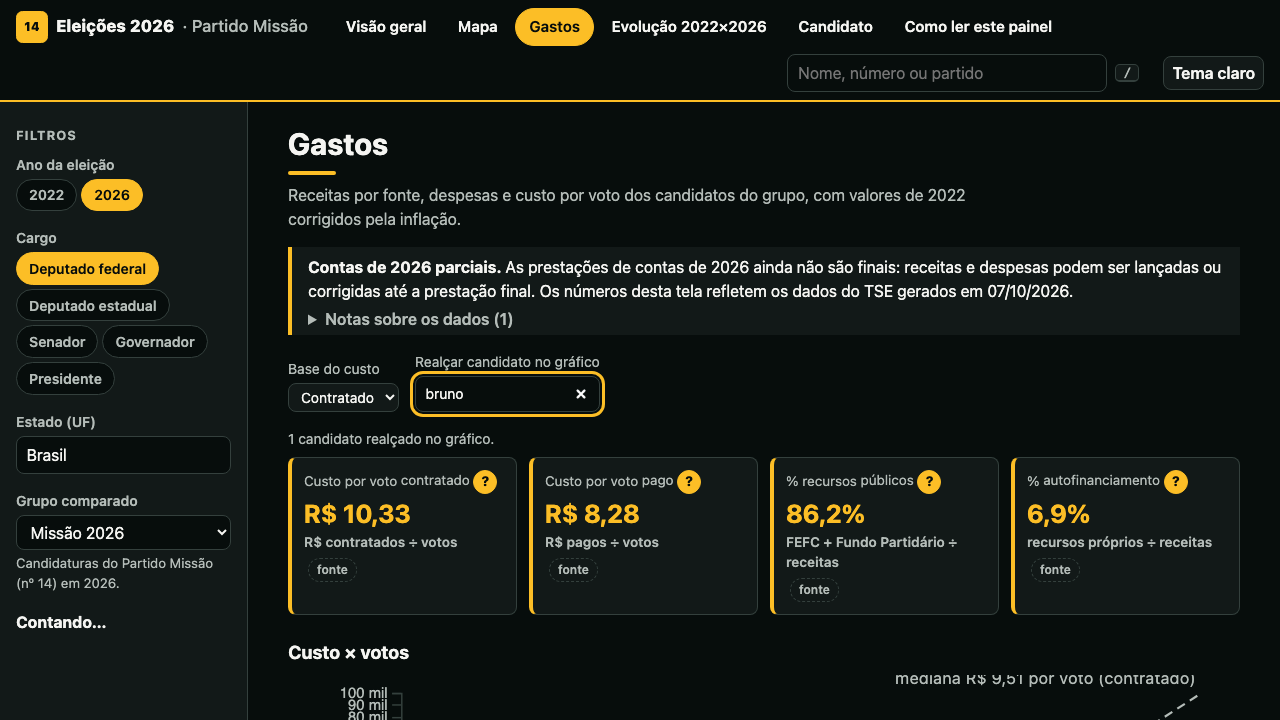
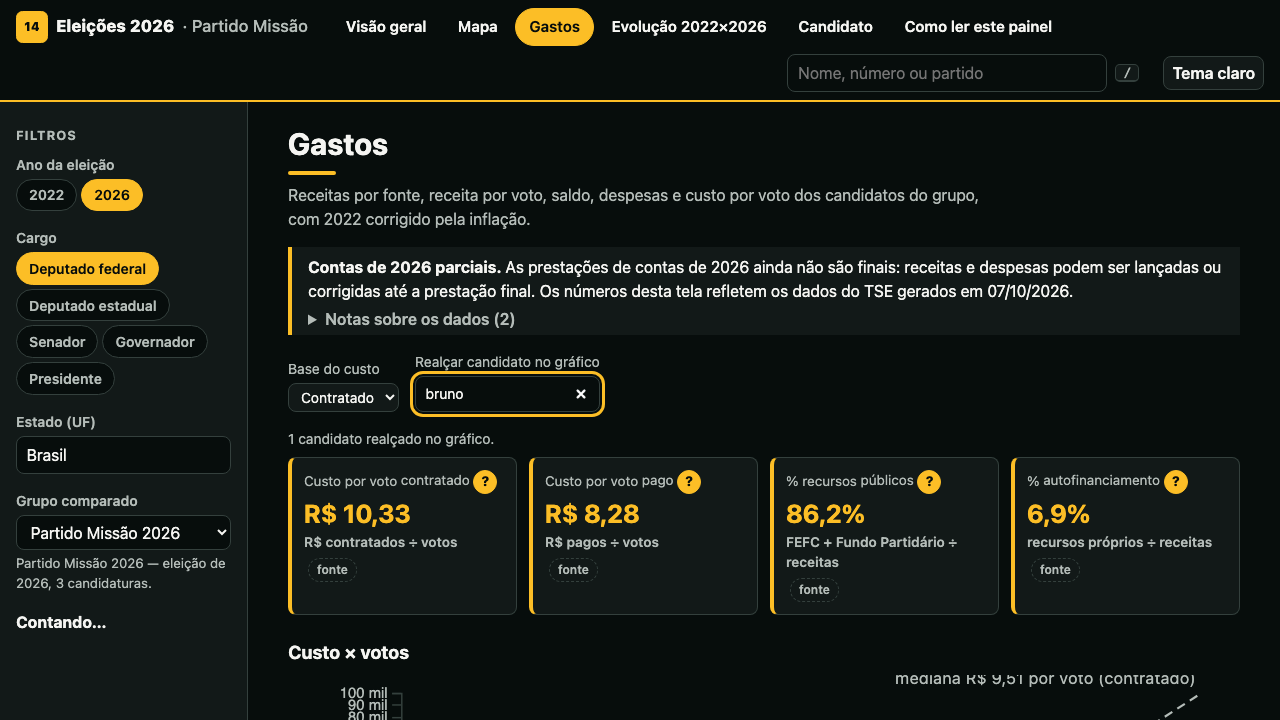
feat(web): Evolução redesenhada — comparador 2022×2026 por lados, frase-resumo, indicados e 422 por lado (T-W20)

Changed region(s): [[0.25, 0.2444, 0.75, 0.3361], [0.0, 0.7333, 0.1875, 0.825], [0.375, 0.4278, 0.4062, 0.4583]]

diff --git a/apps/web/tests/e2e/comparador.spec.ts b/apps/web/tests/e2e/comparador.spec.ts
@@ -1,0 +1,118 @@
+import { readFileSync } from "node:fs";
+import { expect, test, type Page } from "@playwright/test";
+import { simularApi } from "./api";
+
+const CAPTURAS = "../../docs/registro/handoffs/img";
+// O tipo é só para quem chama (JSON.parse devolve any).
+// eslint-disable-next-line @typescript-eslint/no-unnecessary-type-parameters
+const fixture = <T>(nome: string): T => JSON.parse(readFileSync(new URL(`../fixtures/api/${nome}.json`, import.meta.url), "utf-8")) as T;
+
+type Cand = Record<string, unknown> & { sq_candidato: number; ano: number; nm_urna: string };
+const base = fixture<{ itens: Cand[] }>("busca").itens[0] as Cand;
+const CANDIDATURAS: Cand[] = [
+  { ...base, ano: 2022, sq_candidato: 111, nm_urna: "GUTO ZACARIAS", uf: "SP", cargo: "DEPUTADO ESTADUAL", indicado: true },
+  { ...base, ano: 2026, sq_candidato: 222, nm_urna: "RAFA MINATO", uf: "SP", cargo: "DEPUTADO ESTADUAL", indicado: false },
+  { ...base, ano: 2022, sq_candidato: 301, nm_urna: "KIM KATAGUIRI", uf: "SP", cargo: "DEPUTADO FEDERAL", indicado: true },
+  { ...base, ano: 2022, sq_candidato: 302, nm_urna: "CRISTIANO BERALDO", uf: "SP", cargo: "DEPUTADO FEDERAL", indicado: true },
+];
+
+/** `/busca` e as fichas respondem por ano/nome; o `/comparativo` ecoa a contagem pedida e guarda as URLs. */
+async function simular(page: Page, contagem: { nDe: number; nPara: number }): Promise<string[]> {
+  const urls = await simularApi(page);
+  const comparativo = fixture<Record<string, unknown>>("comparativo");
+  const ficha = fixture<{ candidato: Cand }>("ficha");
+  await page.route("**/api/busca?**", (r) => {
+    const q = new URL(r.request().url()).searchParams;
+    const termo = (q.get("q") ?? "").toLowerCase();
+    const itens = CANDIDATURAS.filter((c) => String(c.ano) === q.get("ano") && c.cargo === q.get("cargo") && c.nm_urna.toLowerCase().includes(termo));
+    return r.fulfill({ contentType: "application/json", body: JSON.stringify({ total: itens.length, limite: 40, itens, dt_geracao: "2026-10-07" }) });
+  });
+  await page.route(/\/api\/candidatos\/(2022|2026)\/\d+$/, (r) => {
+    const [, ano, sq] = /candidatos\/(\d+)\/(\d+)/.exec(r.request().url()) ?? [];
+    const c = CANDIDATURAS.find((x) => String(x.ano) === ano && String(x.sq_candidato) === sq);
+    return r.fulfill({ contentType: "application/json", body: JSON.stringify({ ...ficha, candidato: { ...ficha.candidato, ...c, sg_uf: "SP" } }) });
+  });
+  await page.route("**/api/comparativo?**", (r) => {
+    const u = new URL(r.request().url());
+    urls.push(u.pathname + u.search);
+    return r.fulfill({ contentType: "application/json", body: JSON.stringify({ ...comparativo, n_de: contagem.nDe, n_para: contagem.nPara, uf: "SP" }) });
+  });
+  return urls;
+}
+
+async function escolherCandidato(page: Page, cartao: number, busca: string, nome: string): Promise<void> {
+  const c = page.locator(".cartao-lado").nth(cartao);
+  await c.getByRole("button", { name: "Alterar" }).click();
+  await c.getByLabel("Candidatos").check();
+  await c.getByLabel(/Buscar candidato/).fill(busca);
+  await c.getByRole("option", { name: new RegExp(nome) }).click();
+}
+
+test("comparador: Guto Zacarias 2022 × Rafa Minato 2026 (dep. estadual SP) em poucos cliques; a URL reproduz o estado", async ({ page }) => {
+  const urls = await simular(page, { nDe: 1, nPara: 1 });
+  await page.goto("/#/evolucao?uf=SP&cargo=deputado_estadual");
+  await escolherCandidato(page, 0, "guto", "GUTO ZACARIAS");
+  await expect(page.locator(".chip-candidato")).toContainText("GUTO ZACARIAS");
+  await expect(page.locator(".chip-candidato .selo")).toHaveText("indicado MBL");
+  await page.locator(".cartao-lado").first().getByRole("button", { name: "Aplicar" }).click();
+  await expect(page).toHaveURL(/de=c(:|%3A)111/);
+  await escolherCandidato(page, 1, "rafa", "RAFA MINATO");
+  await page.locator(".cartao-lado").nth(1).getByRole("button", { name: "Aplicar" }).click();
+  await expect(page).toHaveURL(/para=c(:|%3A)222/);
+
+  const frase = page.locator(".frase-resumo");
+  await expect(frase).toContainText("Comparando GUTO ZACARIAS (2022) com RAFA MINATO (2026)");
+  await expect(frase).toContainText("Deputado estadual · São Paulo");
+  await expect(frase).toContainText("1 candidatura → 1 candidatura");
+  await expect(page.locator("dl.kpis")).toContainText("Penetração em 2022");
+  await expect(page.locator("dl.kpis")).toContainText("6,1 ‰");
+  expect(urls.some((u) => u.startsWith("/api/comparativo?") && u.includes("sq_2022=111") && u.includes("sq_2026=222"))).toBe(true);
+  await expect(page.locator("table.tabela-pessoas tbody tr")).toHaveCount(2);
+
+  // Nenhuma lista longa: nada com mais de 8 itens visíveis.
+  const maior = await page.evaluate(() => Math.max(0, ...[...document.querySelectorAll("ul,ol")].filter((l) => (l as HTMLElement).offsetParent !== null && !l.closest("nav")).map((l) => l.children.length)));
+  expect(maior).toBeLessThanOrEqual(8);
+  await page.screenshot({ path: `${CAPTURAS}/T-W20-guto-rafa-desktop.png`, fullPage: true });
+
+  await page.reload();
+  await expect(frase).toContainText("Comparando GUTO ZACARIAS (2022) com RAFA MINATO (2026)");
+  await expect(page).toHaveURL(/de=c(:|%3A)111/);
+});
+
+test("comparador: Kim + Beraldo 2022 × Partido Missão 2026 inteiro (dep. federal SP) — 'ver quanto expandimos'", async ({ page }) => {
+  const urls = await simular(page, { nDe: 2, nPara: 49 });
+  await page.goto("/#/evolucao?uf=SP");
+  await escolherCandidato(page, 0, "kim", "KIM KATAGUIRI");
+  await page.locator(".cartao-lado").first().getByLabel(/Buscar candidato/).fill("beraldo");
+  await page.getByRole("option", { name: /CRISTIANO BERALDO/ }).click();
+  await expect(page.locator(".chip-candidato")).toHaveCount(2);
+  await page.locator(".cartao-lado").first().getByRole("button", { name: "Aplicar" }).click();
+
+  const frase = page.locator(".frase-resumo");
+  await expect(frase).toContainText("Comparando KIM KATAGUIRI + CRISTIANO BERALDO (2022) com Partido Missão 2026 (2026)");
+  await expect(frase).toContainText("2 candidaturas → 49 candidaturas");
+  expect(urls.some((u) => u.startsWith("/api/comparativo?") && u.includes("sq_2022=301") && u.includes("sq_2022=302") && u.includes("grupo_2026=missao_2026") && !u.includes("mesmos_candidatos"))).toBe(true);
+  await page.screenshot({ path: `${CAPTURAS}/T-W20-kim-beraldo-missao-desktop.png`, fullPage: true });
+
+  await page.setViewportSize({ width: 390, height: 844 });
+  await expect(page.locator(".cartoes-lados")).toBeVisible();
+  const semRolagem = await page.evaluate(() => document.documentElement.scrollWidth <= document.documentElement.clientWidth);
+  const largos = await page.evaluate(() => [...document.querySelectorAll("body *")].filter((e) => e.getBoundingClientRect().right > document.documentElement.clientWidth + 1).slice(0, 6).map((e) => `${e.tagName}.${e.className}`));
+  expect(semRolagem, `estouram a largura: ${largos.join(", ")}`).toBe(true);
+  await page.screenshot({ path: `${CAPTURAS}/T-W20-kim-beraldo-missao-mobile.png`, fullPage: true });
+
+  await page.reload();
+  await expect(frase).toContainText("KIM KATAGUIRI + CRISTIANO BERALDO");
+  await page.getByRole("button", { name: /Limpar/ }).click();
+  await expect(page).not.toHaveURL(/de=/);
+  await expect(frase).toContainText("MBL 2022");
+});
+
+test("comparador: 422 sq_fora_do_recorte aparece como mensagem no cartão do lado, sem quebrar a tela", async ({ page }) => {
+  await simular(page, { nDe: 1, nPara: 1 });
+  await page.route("**/api/comparativo?**", (r) => r.fulfill({ status: 422, contentType: "application/json", body: JSON.stringify({ detail: { codigo: "sq_fora_do_recorte" } }) }));
+  await page.goto("/#/evolucao?uf=SP&de=c:301");
+  await expect(page.locator(".cartao-erro-api")).toContainText("não concorreu a este cargo nesta UF");
+  await expect(page.locator(".cartao-lado")).toHaveCount(2);
+  await expect(page.getByRole("alert")).toHaveCount(0);
+});

diff --git a/apps/web/tests/e2e/filtros-busca.spec.ts b/apps/web/tests/e2e/filtros-busca.spec.ts
@@ -137,6 +137,6 @@ test("grupos: a Evolução abre em MBL 2022 → MBL 2026 quando o grupo é mbl_2
   await page.goto("/#/evolucao?grupo=mbl_2026");
   await expect(page.locator(".frase-resumo")).toContainText("MBL 2026");
   await page.getByRole("button", { name: "Alterar" }).nth(1).click();
-  await expect(page.locator("select[name=grupo]").nth(1).locator("option")).toContainText(["Partido Missão 2026", "MBL 2026 (Missão + aliados em outros partidos)"]);
+  await expect(page.locator(".cartao-lado").nth(1).locator("select[name=grupo] option")).toContainText(["Partido Missão 2026", "MBL 2026 (Missão + aliados em outros partidos)"]);
   await expect.poll(() => urls.some((u) => u.startsWith("/api/comparativo?") && u.includes("comparacao=mbl2022_mbl2026"))).toBe(true);
 });

diff --git a/apps/web/src/telas/evolucao-candidaturas.ts b/apps/web/src/telas/evolucao-candidaturas.ts
@@ -12,7 +12,7 @@ const COLUNAS = ["Ano", "Candidato", "Partido", "UF", "Votos", "Penetração"] a
 export function tabelaCandidaturas(linhas: readonly CandidaturaFicha[]): HTMLElement | null {
   if (linhas.length === 0) return null;
   const tabela = h("table", { className: "tabela-pessoas" });
-  tabela.createCaption().textContent = T.tabelaTitulo;
+  tabela.createCaption().textContent = "Votos e penetração de cada candidatura escolhida, por ano";
   const cab = tabela.createTHead().insertRow();
   for (const c of COLUNAS) cab.append(h("th", { scope: "col", textContent: c }));
   const corpo = tabela.createTBody();

diff --git a/apps/web/tests/e2e/telas.spec.ts b/apps/web/tests/e2e/telas.spec.ts
@@ -49,7 +49,7 @@ test("evolução: três mapas, KPIs em ‰ e avisos de rezoneamento", async ({ p
   await page.goto("/#/evolucao");
   await expect(page.locator(".mapas-3 canvas")).toHaveCount(3, { timeout: 20_000 });
   await expect(page.getByText(/mesmas quebras de cor/)).toBeVisible();
-  await page.getByText("Notas sobre os dados").click();
+  await page.locator(".notas-dados > summary").click();
   await expect(page.getByText("Zonas eleitorais mudaram.")).toBeVisible();
   await expect(page.locator("dl.kpis")).toContainText("6,1 ‰");
 });

diff --git a/apps/web/src/estilo.css b/apps/web/src/estilo.css
@@ -315,3 +315,4 @@ circle.marca.com-link { cursor: pointer; }
   .cartoes-lados { grid-template-columns: 1fr; }
   .cartoes-seta { transform: rotate(90deg); justify-self: center; }
 }
+.tabela-rolagem { overflow-x: auto; max-width: 100%; }

diff --git a/docs/registro/handoffs/frontend-T-W20.md b/docs/registro/handoffs/frontend-T-W20.md
@@ -1,0 +1,22 @@
+# Handoff frontend — T-W20 (Evolução 2022×2026: comparador claro)
+
+## O que mudou
+- **Frase-resumo** no topo (`.frase-resumo`, `aria-live`): "Comparando **X** (2022) com **Y** (2026) · cargo · UF — N candidaturas → M candidaturas" (n_de/n_para da API).
+- **Dois cartões 2022 → 2026** (`telas/comparador-cartao.ts`), empilhados no mobile. Cada um: o que está escolhido em uma linha + "Alterar" → alternância **Grupo** (select só com os grupos do ano) | **Candidatos** (busca com combobox, foto, ≤ 8 sugestões, chips removíveis, limite 10 por lado). "Limpar" volta ao padrão.
+- **Lista longa removida** (`evolucao-selecao.ts`, `evolucao-tabela.ts`, `dados/evolucao-logica.ts` apagados; `/evolucao/pessoas` não é mais chamado). O seletor "Comparar" também saiu: os grupos configurados são opções dos cartões. Sem atalho "mais votados" (a API não ordena por votos na busca).
+- Abaixo: KPIs rotulados "Penetração em 2022/2026" com o nome do lado, três mapas, tabela "Candidaturas escolhidas" (só quando há lado de candidatos; vem das fichas), e **"Notas sobre os dados"** recolhidas.
+- **Estado na URL**: `#/evolucao?de=c:301,302&para=g:missao_2026` (`g:<grupo>` | `c:<sq>,<sq>`; vazio = padrão; lixo é descartado). `store.Filtros.pessoas` virou `de`/`para`.
+- **Parâmetros** (`dados/comparador-logica.ts`, `paramsComparativo`): dois grupos de uma comparação declarada → `comparacao=`; senão por lado `grupo_2022|2026` / `sq_2022|2026` (misto funciona, T-B15). Nunca envia `mesmos_candidatos` (T-B16).
+- **422**: `cliente` agora lança `ErroApi {status, codigo}`. `sq_fora_do_recorte` → mensagem no cartão do(s) lado(s) de candidatos (`.cartao-erro-api`, role=status); demais 422 → mensagem curta no lugar do resultado; os cartões continuam.
+- **Indicados (item 9)**: selo "indicado MBL" nas sugestões e chips (campo `indicado`); no cartão 2022 os grupos `mbl_2022_indicados` e `mbl_2022` ganham nota com os quatro nomes e o critério.
+
+## Decisões / pendências
+- Textos novos estão em `src/telas/textos-comparador.ts`: `docs/metodologia/publico/textos.json` e o README público são do analista. **Pendente com o analista/orquestrador:** (a) mover os textos para `textos.json`; (b) **entrada de glossário em "Como ler este painel"** (README público) — "indicados" = 4 candidaturas de 2022 indicadas pelo MBL (Kim Kataguiri, Guto Zacarias, Renato Battista, Cristiano Beraldo; `origem=indicado` em `data/reference/mbl_2022.csv`); grupo MBL 2022 = indicados + candidatos do Missão 2026 que disputaram 2022. Os nomes na nota do cartão estão fixos no texto (não vêm da API).
+- 422 por lado: o corpo do erro não traz qual lado falhou; mostro nos dois lados de candidatos.
+- `src/dados/gerado/api.d.ts` **não** foi regenerado: regenerar quebra `gastos.ts`/`candidato.ts`/fixtures (T-B14: `receitas` agora anulável). A tela usa `Params` genéricos, então não depende disso. Regenerar é tarefa à parte.
+- Fichas dos candidatos escolhidos são buscadas (nomes dos chips ao recarregar a URL e tabela): até 20 chamadas no pior caso.
+
+## Verificar
+`cd apps/web && pnpm exec vitest run && pnpm build && pnpm exec playwright test` (321 + 65 verdes; eslint e tsc limpos).
+E2E `tests/e2e/comparador.spec.ts`: Guto 2022 × Rafa 2026 (dep. estadual SP), Kim + Beraldo 2022 × Missão 2026 inteiro (dep. federal SP), recarregar a URL, nenhuma lista > 8 itens, sem rolagem horizontal no mobile, 422.
+Capturas: `docs/registro/handoffs/img/T-W20-guto-rafa-desktop.png`, `T-W20-kim-beraldo-missao-desktop.png`, `T-W20-kim-beraldo-missao-mobile.png`.
